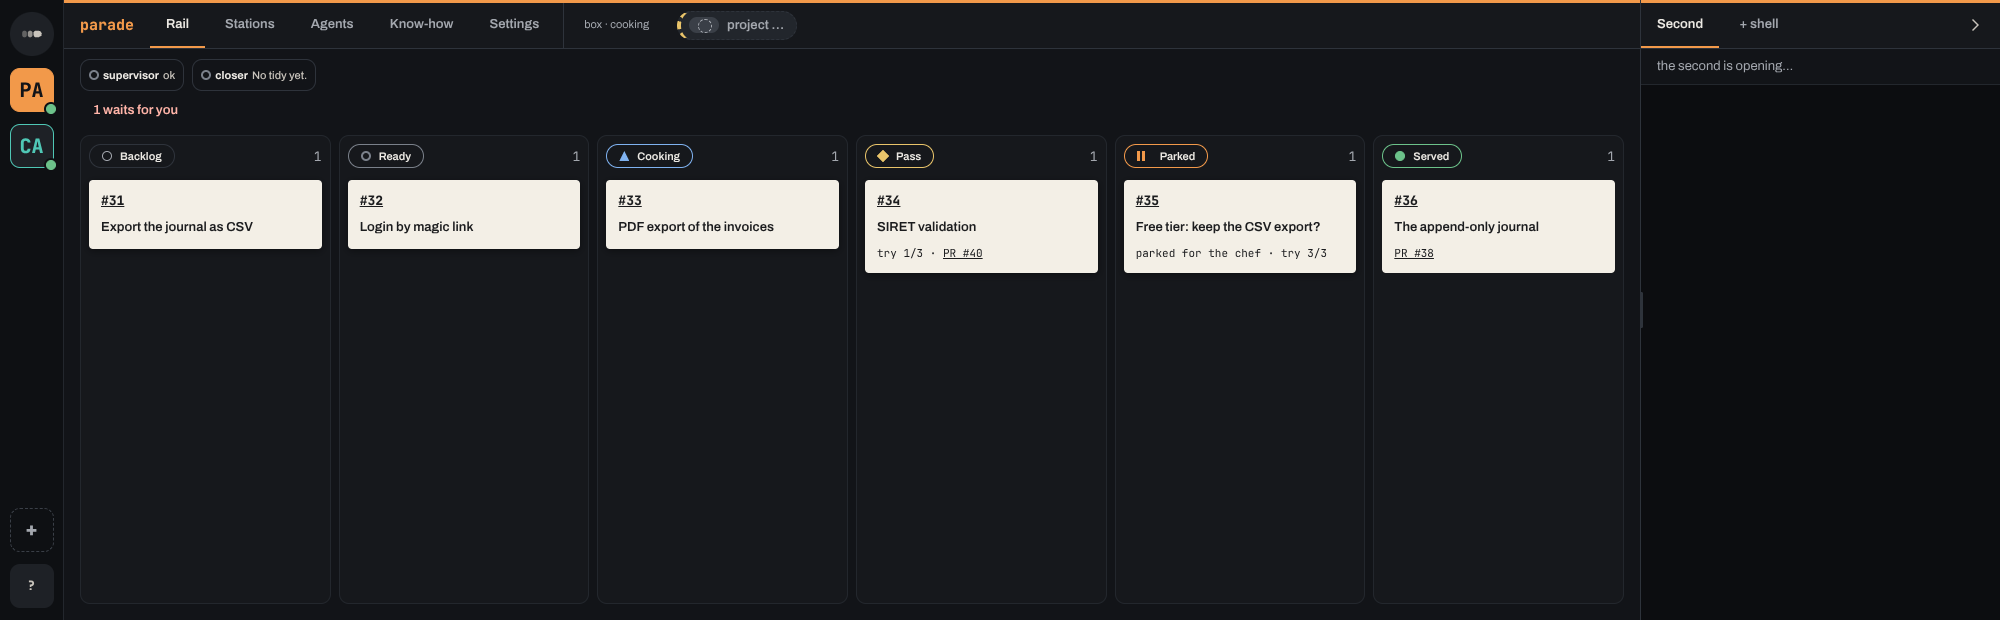
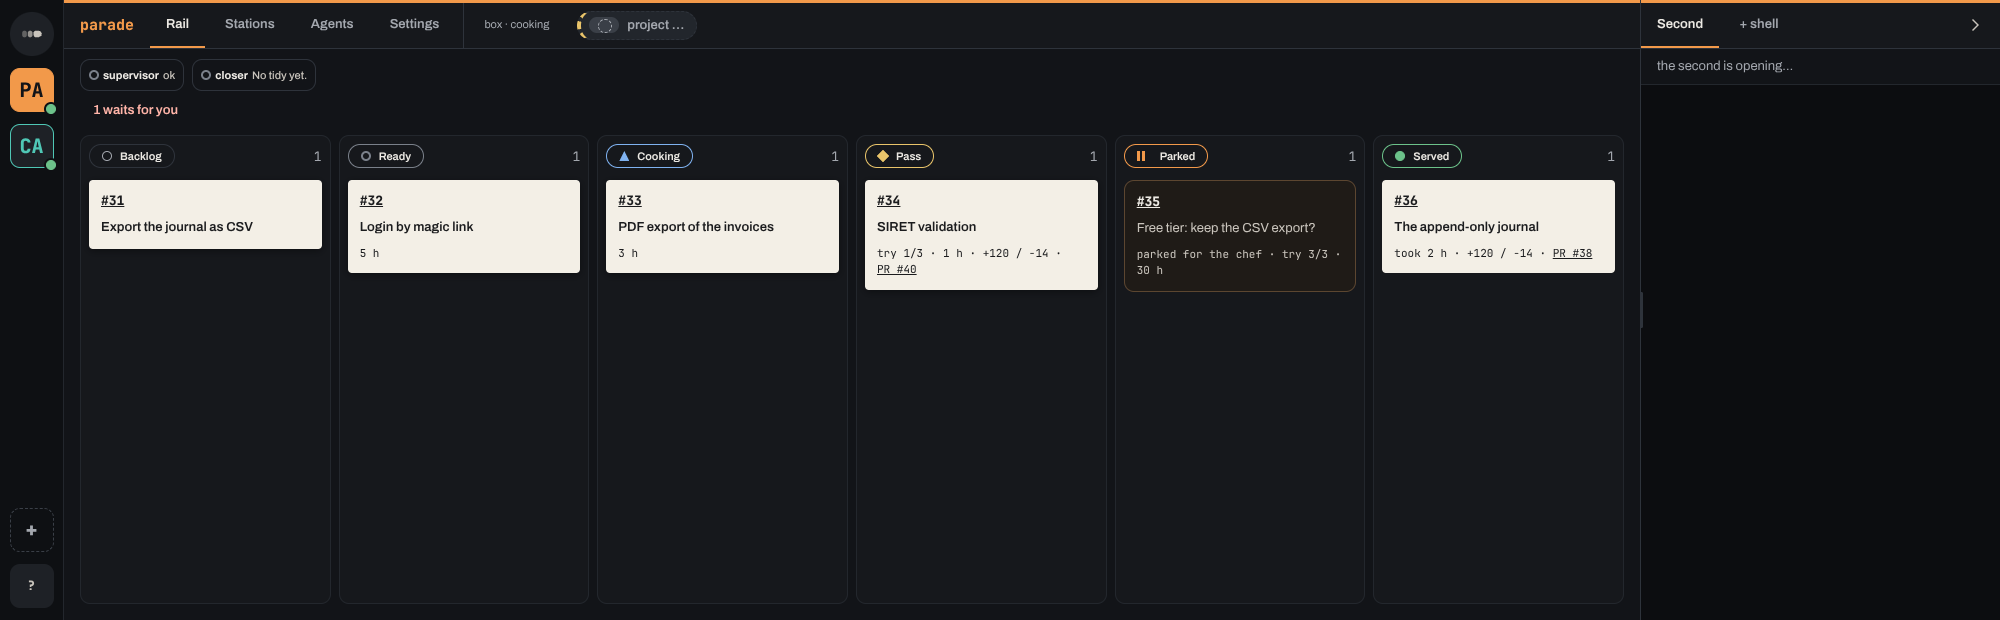
#4507 — The budget test's fake GitHub answers the cards' timelines; captures of the board and the rail after the merge
Every project now reads the kitchen's board, whose cards read /issues/N/timeline (#4541): the fake answered it 404, with no ETag, so each reading counted it.

Changed region(s): [[0.155, 0.2758, 0.744, 0.4903], [0.186, 0.0306, 0.403, 0.0613], [0.775, 0.3984, 0.806, 0.429]]

diff --git a/app/test/budget-github.test.ts b/app/test/budget-github.test.ts
@@ -50,7 +50,7 @@ function fakeGitHub(clock: { t: number }, options: { changeToutesLes?: number; l
     if (path.includes("/contents/")) return { data: { content: btoa(JSON.stringify({ chef: "chef" })) }, version: 0 };
     if (path.includes("/check-runs")) return { data: { check_runs: [{ conclusion: "success" }] }, version: 0 };
     if (path.includes("/issues/2/comments")) return { data: [{ id: 9, body: "<!-- brigade:prise station=box/claude -->", author_association: "OWNER", created_at: "2026-11-09T07:30:00Z" }], version };
-    if (/\/issues\/\d+\/(comments|events)/.test(path)) return { data: [], version: 0 };
+    if (/\/issues\/\d+\/(comments|events|timeline)/.test(path)) return { data: [], version: 0 };
     return { status: 404 };
   };
   const call: CallGitHub = async (path, headers = {}) => {

diff --git a/.brigade/know-how.md b/.brigade/know-how.md
@@ -21,3 +21,4 @@
 - A card of the new kitchen's board for the chef reuses `cardWait` and `data-attend`/`data-actif` of the old rail; `capture.ts` needs `npm ci --prefix scripts/capture-ecran` and `npm ci --ignore-scripts --prefix app` first (#4543)
 - A new-kitchen card reads its duration from `/issues/N/timeline` (`labeled` events) and its lines from `/pulls/N`, both through the ETag memory (a 304 is free); the kitchen writes no station on GitHub, so a card shows none (#4541)
 - `scripts/capture-ecran` needs its own `npm ci --prefix scripts/capture-ecran` in a fresh worktree (the setup does not install it); the app's Electron binary is absent too, so the view capture is the screenshot a cook can give (#4510)
+- `app/test/budget-github.test.ts`'s fake GitHub must answer every path the board reads (`/issues/N/timeline`, `/pulls/N`…): a 404 carries no ETag, so each one is counted at every reading and the hour blows past 1,000 (#4507)
